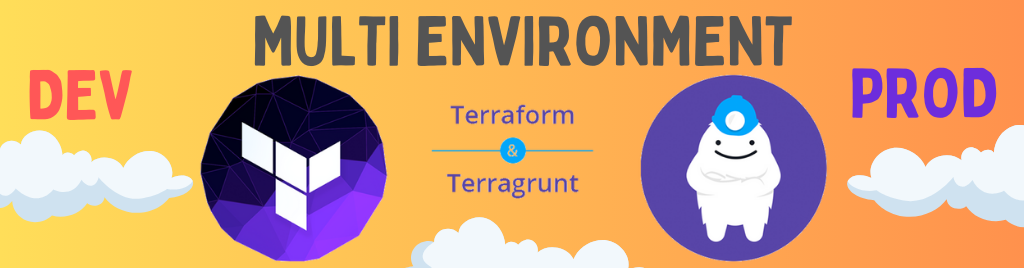
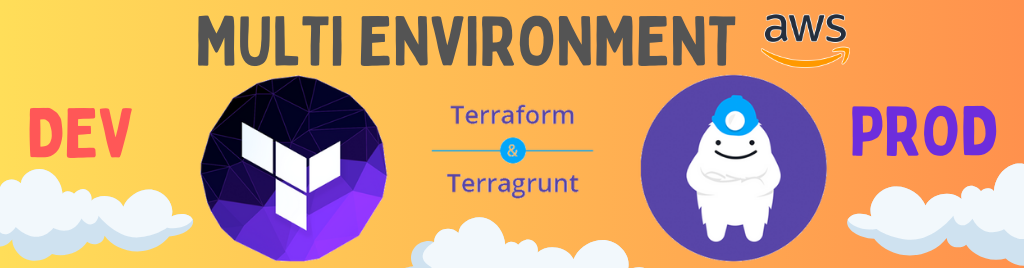
update-reademe

Changed region(s): [[0.1875, 0.0299, 1.0, 1.0], [0.0, 0.2388, 0.1875, 0.9851]]

diff --git a/README.md b/README.md
@@ -1,4 +1,4 @@
-# Terragrunt Multi-Env Infrastructure
+# Terragrunt Multi-Env Infrastructure on AWS
 
 <img src=imgs/cover.png>
 
@@ -132,6 +132,14 @@ To connect to your **dev** or **prod** RDS clusters, follow these steps:
      mysql -h prod-rds-cluster.cluster-cxzadf8nmshb.eu-central-1.rds.amazonaws.com -u <username-from-secret-manager> -P 3306 -p
      ```
      (Replace `<username-from-secret-manager>` with the actual username retrieved from Secrets Manager. You will be prompted to enter the password.)
+
+### Teardown All Environments
+
+To destroy the infrastructure for both dev and prod environments, you can use the following commands.
+
+```bash
+terragrunt run-all destroy
+```
 
 ## Notes
 
